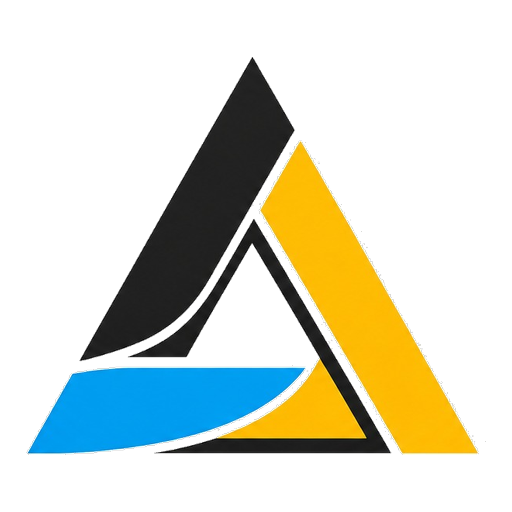
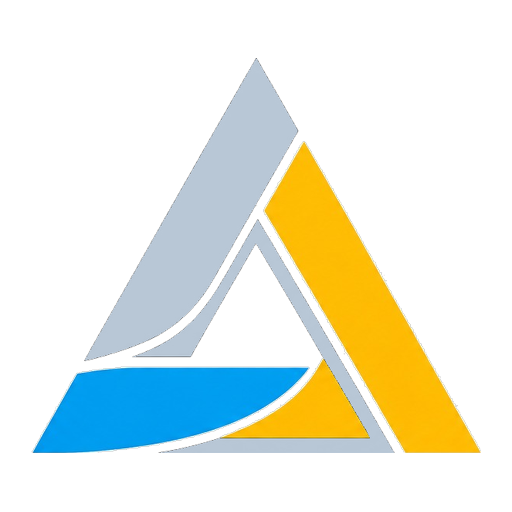
fix(mobile+web): restore full 3-facet triangle emblem, eliminate WebSocket crash, optimize cold start and post-login hydration

diff --git a/mobile/lib/services/websocket_service.dart b/mobile/lib/services/websocket_service.dart
@@ -16,6 +16,7 @@ class WebSocketService {
 
   final StreamController<bool> _connectionStateController = StreamController<bool>.broadcast();
   final StreamController<TaskItem> _taskEventController = StreamController<TaskItem>.broadcast();
+  final StreamController<List<TaskItem>> _taskBatchEventController = StreamController<List<TaskItem>>.broadcast();
   final StreamController<List<RoomTelemetry>> _roomEventController = StreamController<List<RoomTelemetry>>.broadcast();
   final StreamController<VoiceTransmission> _voiceEventController = StreamController<VoiceTransmission>.broadcast();
   final StreamController<Map<String, dynamic>> _sosEventController = StreamController<Map<String, dynamic>>.broadcast();
@@ -28,6 +29,7 @@ class WebSocketService {
 
   Stream<bool> get isConnectedStream => _connectionStateController.stream;
   Stream<TaskItem> get onTaskEvent => _taskEventController.stream;
+  Stream<List<TaskItem>> get onTaskBatchEvent => _taskBatchEventController.stream;
   Stream<List<RoomTelemetry>> get onRoomEvent => _roomEventController.stream;
   Stream<VoiceTransmission> get onVoiceEvent => _voiceEventController.stream;
   Stream<Map<String, dynamic>> get onSosEvent => _sosEventController.stream;
@@ -40,37 +42,59 @@ class WebSocketService {
 
   void connect() {
     _reconnectTimer?.cancel();
+    disconnect();
 
     try {
       final base = ApiService().baseUrl;
       final wsUrl = base.replaceFirst('http://', 'ws://').replaceFirst('https://', 'wss://');
       final uri = Uri.parse('$wsUrl/ws');
 
-      _channel = WebSocketChannel.connect(uri);
-      _isConnected = true;
-      _reconnectAttempts = 0;
-      _connectionStateController.add(true);
+      final channel = WebSocketChannel.connect(uri);
+      _channel = channel;
 
-      _subscription = _channel!.stream.listen(
-        (message) {
+      channel.ready.then((_) {
+        if (_channel == channel) {
           _isConnected = true;
           _reconnectAttempts = 0;
+          if (!_connectionStateController.isClosed) {
+            _connectionStateController.add(true);
+          }
+        }
+      }).catchError((_) {
+        if (_channel == channel) {
+          _isConnected = false;
+          if (!_connectionStateController.isClosed) {
+            _connectionStateController.add(false);
+          }
+          _scheduleReconnect();
+        }
+      });
+
+      _subscription = channel.stream.listen(
+        (message) {
           _handleMessage(message);
         },
-        onError: (err) {
+        onError: (_) {
           _isConnected = false;
-          _connectionStateController.add(false);
+          if (!_connectionStateController.isClosed) {
+            _connectionStateController.add(false);
+          }
           _scheduleReconnect();
         },
         onDone: () {
           _isConnected = false;
-          _connectionStateController.add(false);
+          if (!_connectionStateController.isClosed) {
+            _connectionStateController.add(false);
+          }
           _scheduleReconnect();
         },
+        cancelOnError: true,
       );
-    } catch (e) {
+    } catch (_) {
       _isConnected = false;
-      _connectionStateController.add(false);
+      if (!_connectionStateController.isClosed) {
+        _connectionStateController.add(false);
+      }
       _scheduleReconnect();
     }
   }
@@ -168,10 +192,14 @@ class WebSocketService {
         case 'INIT_STATE':
           if (data is Map<String, dynamic>) {
             if (data['tasks'] is List) {
+              final newTasks = <TaskItem>[];
               for (final t in data['tasks'] as List) {
                 if (t is Map<String, dynamic>) {
-                  _taskEventController.add(TaskItem.fromJson(t));
+                  newTasks.add(TaskItem.fromJson(t));
                 }
+              }
+              if (newTasks.isNotEmpty) {
+                _taskBatchEventController.add(newTasks);
               }
             }
             final roomsData = data['rooms'];
@@ -225,9 +253,15 @@ class WebSocketService {
     _reconnectTimer?.cancel();
     _reconnectAttempts = 0;
     _subscription?.cancel();
-    _channel?.sink.close();
+    _subscription = null;
+    try {
+      _channel?.sink.close();
+    } catch (_) {}
+    _channel = null;
     _isConnected = false;
-    _connectionStateController.add(false);
+    if (!_connectionStateController.isClosed) {
+      _connectionStateController.add(false);
+    }
   }
 
   void dispose() {

diff --git a/mobile/lib/screens/splash_screen.dart b/mobile/lib/screens/splash_screen.dart
@@ -51,7 +51,7 @@ class _SplashScreenState extends State<SplashScreen> with TickerProviderStateMix
     // 1. Master Sequence Controller (1250ms target for cinematic boot)
     _masterController = AnimationController(
       vsync: this,
-      duration: const Duration(milliseconds: 1250),
+      duration: const Duration(milliseconds: 900),
     );
 
     // 2. Continuous Tactical Radar Orbital Controller
@@ -134,7 +134,7 @@ class _SplashScreenState extends State<SplashScreen> with TickerProviderStateMix
 
     // Allow cinematic sequence to complete smoothly
     final elapsed = DateTime.now().difference(startTime).inMilliseconds;
-    final remaining = 1250 - elapsed;
+    final remaining = 900 - elapsed;
     if (remaining > 0) {
       await Future.delayed(Duration(milliseconds: remaining));
     }
@@ -766,6 +766,13 @@ class _CornerBracketsPainter extends CustomPainter {
 /// Tactical Holographic Hex/Grid & Radar Beam Background Painter
 class _HolographicBackgroundPainter extends CustomPainter {
   final double radarAngle;
+  static final Paint _gridPaint = Paint()
+    ..color = const Color(0xFF101B30).withValues(alpha: 0.35)
+    ..strokeWidth = 0.5;
+  static final Paint _cornerPaint = Paint()
+    ..color = const Color(0xFF38BDF8).withValues(alpha: 0.3)
+    ..strokeWidth = 1.0;
+
   const _HolographicBackgroundPainter({required this.radarAngle});
 
   @override
@@ -773,16 +780,12 @@ class _HolographicBackgroundPainter extends CustomPainter {
     final center = Offset(size.width / 2, size.height / 2);
 
     // 1. Subtle Background Tactical Grid
-    final gridPaint = Paint()
-      ..color = const Color(0xFF101B30).withValues(alpha: 0.35)
-      ..strokeWidth = 0.5;
-
     const step = 44.0;
     for (double x = 0; x < size.width; x += step) {
-      canvas.drawLine(Offset(x, 0), Offset(x, size.height), gridPaint);
+      canvas.drawLine(Offset(x, 0), Offset(x, size.height), _gridPaint);
     }
     for (double y = 0; y < size.height; y += step) {
-      canvas.drawLine(Offset(0, y), Offset(size.width, y), gridPaint);
+      canvas.drawLine(Offset(0, y), Offset(size.width, y), _gridPaint);
     }
 
     // 2. Ambient Rotating Tactical Radar Beam
@@ -801,26 +804,23 @@ class _HolographicBackgroundPainter extends CustomPainter {
     canvas.drawCircle(center, size.width * 0.7, radarPaint);
 
     // 3. Screen Edge Precision Corner Crosshairs
-    final cornerPaint = Paint()
-      ..color = const Color(0xFF38BDF8).withValues(alpha: 0.3)
-      ..strokeWidth = 1.0;
 
     const arm = 14.0;
     // Top-Left
-    canvas.drawLine(const Offset(16, 16), const Offset(16 + arm, 16), cornerPaint);
-    canvas.drawLine(const Offset(16, 16), const Offset(16, 16 + arm), cornerPaint);
+    canvas.drawLine(const Offset(16, 16), const Offset(16 + arm, 16), _cornerPaint);
+    canvas.drawLine(const Offset(16, 16), const Offset(16, 16 + arm), _cornerPaint);
 
     // Top-Right
-    canvas.drawLine(Offset(size.width - 16, 16), Offset(size.width - 16 - arm, 16), cornerPaint);
-    canvas.drawLine(Offset(size.width - 16, 16), Offset(size.width - 16, 16 + arm), cornerPaint);
+    canvas.drawLine(Offset(size.width - 16, 16), Offset(size.width - 16 - arm, 16), _cornerPaint);
+    canvas.drawLine(Offset(size.width - 16, 16), Offset(size.width - 16, 16 + arm), _cornerPaint);
 
     // Bottom-Left
-    canvas.drawLine(Offset(16, size.height - 16), Offset(16 + arm, size.height - 16), cornerPaint);
-    canvas.drawLine(Offset(16, size.height - 16), Offset(16, size.height - 16 - arm), cornerPaint);
+    canvas.drawLine(Offset(16, size.height - 16), Offset(16 + arm, size.height - 16), _cornerPaint);
+    canvas.drawLine(Offset(16, size.height - 16), Offset(16, size.height - 16 - arm), _cornerPaint);
 
     // Bottom-Right
-    canvas.drawLine(Offset(size.width - 16, size.height - 16), Offset(size.width - 16 - arm, size.height - 16), cornerPaint);
-    canvas.drawLine(Offset(size.width - 16, size.height - 16), Offset(size.width - 16, size.height - 16 - arm), cornerPaint);
+    canvas.drawLine(Offset(size.width - 16, size.height - 16), Offset(size.width - 16 - arm, size.height - 16), _cornerPaint);
+    canvas.drawLine(Offset(size.width - 16, size.height - 16), Offset(size.width - 16, size.height - 16 - arm), _cornerPaint);
   }
 
   @override

diff --git a/mobile/lib/screens/cockpit_screen.dart b/mobile/lib/screens/cockpit_screen.dart
@@ -38,7 +38,38 @@ class _CockpitScreenState extends State<CockpitScreen> with TickerProviderStateM
     RoomTelemetry(id: 'room4', name: 'Shannon Workshop Suite', currentDensity: 52.0, capacity: 120, currentOccupancy: 62, status: 'OPTIMAL', predictedRisk: 0.40, doorCountIn: 70, doorCountOut: 8, temperature: 22.0, co2: 590),
     RoomTelemetry(id: 'room5', name: 'Hopper Tech Pavilion', currentDensity: 35.0, capacity: 1200, currentOccupancy: 420, status: 'OPTIMAL', predictedRisk: 0.25, doorCountIn: 490, doorCountOut: 70, temperature: 20.8, co2: 480),
   ];
-  List<TaskItem> _tasks = [];
+  List<TaskItem> _tasks = [
+    TaskItem(
+      id: 'task-init-1',
+      title: 'Turing Hall Optical Turnstile Influx Monitor',
+      description: 'Active crowd surge monitoring at entry gates',
+      location: 'Turing Grand Hall - Sector A',
+      severity: 'HIGH',
+      status: 'IN_PROGRESS',
+      assignedTo: 'Aryan Pandey',
+      createdAt: DateTime.now(),
+    ),
+    TaskItem(
+      id: 'task-init-2',
+      title: 'Perimeter Laser Tripwire Calibration Check',
+      description: 'Verify optical beam tripwire alignment',
+      location: 'Main Concourse North',
+      severity: 'MEDIUM',
+      status: 'PENDING',
+      assignedTo: null,
+      createdAt: DateTime.now(),
+    ),
+    TaskItem(
+      id: 'task-init-3',
+      title: 'Life-Safety Evacuation Egress Path Clear',
+      description: 'Ensure double-door emergency exits are unblocked',
+      location: 'Lovelace Auditorium Egress',
+      severity: 'CRITICAL',
+      status: 'RESOLVED',
+      assignedTo: 'Suryansh',
+      createdAt: DateTime.now(),
+    ),
+  ];
   final List<VoiceTransmission> _voiceTransmissions = [];
   AttendeeBadgeResult? _lastScannedBadge;
   int _totalGateCheckins = 842;
@@ -67,6 +98,8 @@ class _CockpitScreenState extends State<CockpitScreen> with TickerProviderStateM
 
   StreamSubscription? _wsStateSub;
   StreamSubscription? _taskSub;
+  StreamSubscription? _taskBatchSub;
+  int _sessionValidateTick = 0;
   StreamSubscription? _roomSub;
   StreamSubscription? _voiceSub;
   StreamSubscription? _sosSub;
@@ -130,15 +163,23 @@ class _CockpitScreenState extends State<CockpitScreen> with TickerProviderStateM
     _telemetryTimer = Timer.periodic(const Duration(seconds: 4), (timer) async {
       if (!mounted) return;
       try {
-        // Validate active session with backend to detect remote revocation
-        final isSessionValid = await _api.validateSession();
-        if (!isSessionValid && mounted) {
-          _handleForcedLogout(reason: 'Session revoked or expired by Administrator.');
-          return;
+        _sessionValidateTick++;
+        // Validate active session every 8 ticks (~32s) to prevent hot-path network blocking
+        if (_sessionValidateTick % 8 == 0) {
+          final isSessionValid = await _api.validateSession();
+          if (!isSessionValid && mounted) {
+            _handleForcedLogout(reason: 'Session revoked or expired by Administrator.');
+            return;
+          }
         }
 
-        final rooms = await _api.fetchRooms();
-        final tasks = await _api.fetchTasks();
+        // Concurrent parallel fetching
+        final results = await Future.wait([
+          _api.fetchRooms(),
+          _api.fetchTasks(),
+        ]);
+        final rooms = results[0];
+        final tasks = results[1];
         if (mounted && rooms.isNotEmpty) {
           setState(() {
             _rooms = List<RoomTelemetry>.from(rooms);
@@ -185,6 +226,7 @@ class _CockpitScreenState extends State<CockpitScreen> with TickerProviderStateM
     _scannerCodeController.dispose();
     _wsStateSub?.cancel();
     _taskSub?.cancel();
+    _taskBatchSub?.cancel();
     _roomSub?.cancel();
     _voiceSub?.cancel();
     _sosSub?.cancel();
@@ -244,6 +286,14 @@ class _CockpitScreenState extends State<CockpitScreen> with TickerProviderStateM
             copy.insert(0, task);
           }
           _tasks = copy;
+        });
+      }
+    });
+
+    _taskBatchSub = _ws.onTaskBatchEvent.listen((batch) {
+      if (mounted && batch.isNotEmpty) {
+        setState(() {
+          _tasks = List<TaskItem>.from(batch);
         });
       }
     });

diff --git a/frontend/components/websockets.js b/frontend/components/websockets.js
@@ -97,7 +97,14 @@ function initWebSockets() {
   };
 
   ws.onmessage = (event) => {
-    const payload = JSON.parse(event.data);
+    let payload;
+    try {
+      payload = JSON.parse(event.data);
+    } catch (parseErr) {
+      console.warn('[WS] Received non-JSON or malformed packet:', event.data, parseErr);
+      return;
+    }
+    if (!payload || typeof payload !== 'object') return;
 
     switch (payload.type) {
       case 'INIT_STATE':
